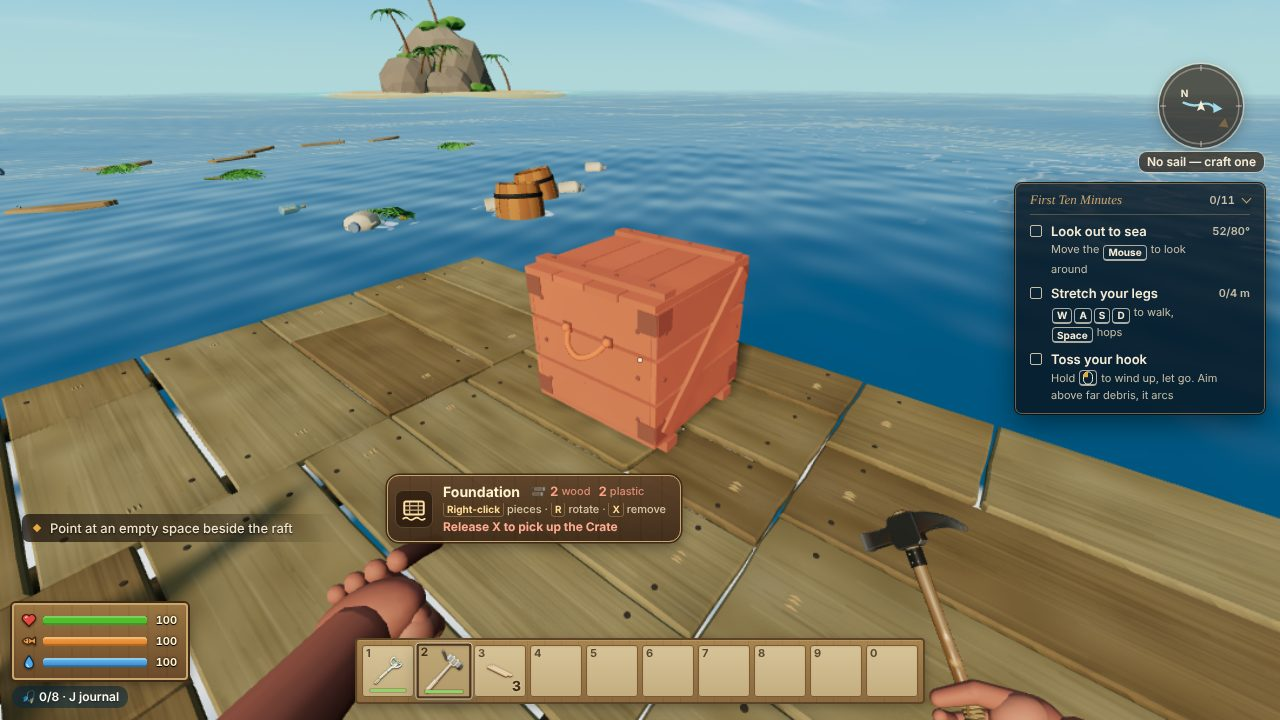
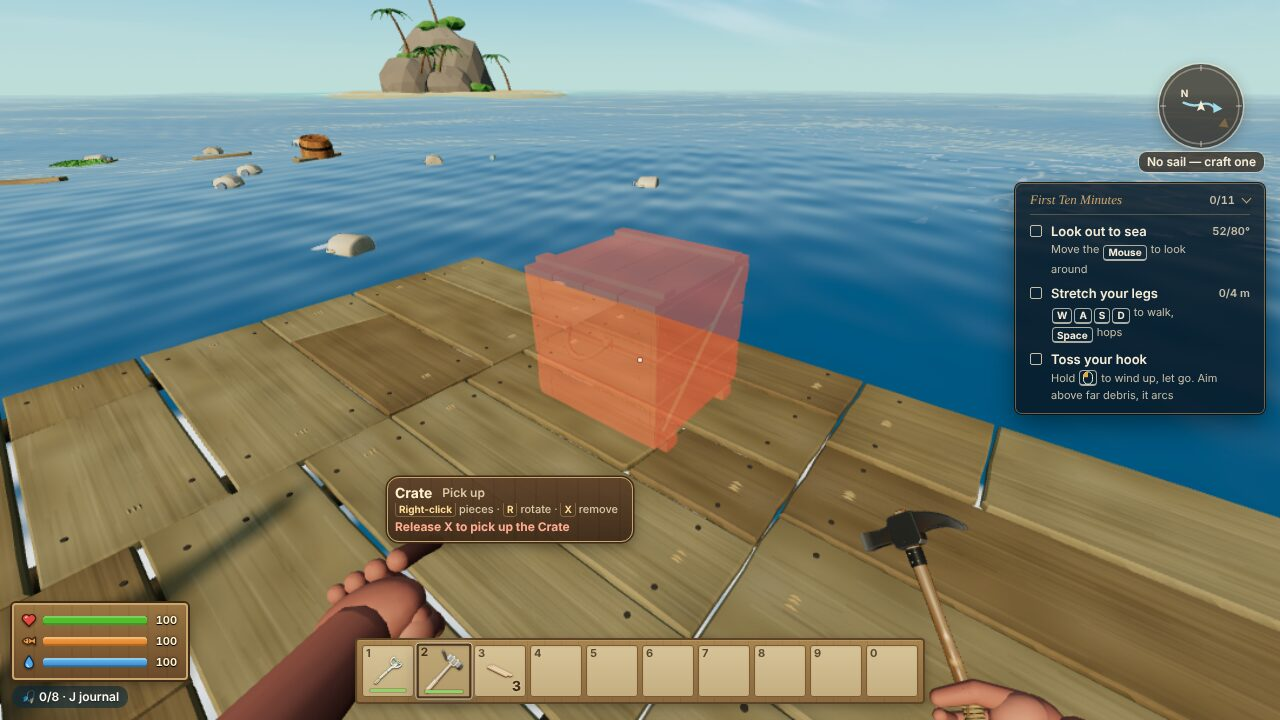
Polish round 2 from visual QA: partner knees, sit view ease, see-through pickup ghost, target name on the build card, nameplate fade, emblem outline, phone dialog grid

diff --git a/dist/game.js b/dist/game.js
@@ -315,7 +315,9 @@ export function mount(transfer = null) {
   let joinTimer = 0, joinDeadline = Number.isFinite(X?.joinDeadline) ? X.joinDeadline : 0;
   let waterClock = 0, waterAim = null; const wateringGroups = new Map(); // tileKey -> palm/purifier group
   const decorGroups = [], undecorHits = []; let hostCaps = null, hostUndecor = false, undecorPreview = null, undecorD = null, undecorText = '', undecorAct = null; // [undecor] decor meshes (rebuildRaft), guest's last host caps, QA preview tile, cached chip/action per target
-  const undecorOut = {text:'', action:null, d:null, deny:null}; // [undecor] reused every frame
+  const undecorOut = {text:'', action:null, d:null, deny:null, name:''}; // [undecor] reused every frame
+  let undecorHid = null, undecorHidD = null, undecorName = '', wasRemoving = false; // [undecor] real decor hidden under the pickup ghost; chip name; X edge
+  const HAMMER_HINT = 'Point at an empty space beside the raft';
   let netClock = 0, lastSaveAt = performance.now(), lastNetSendAt = 0, toastTimer = 0, wheelAcc = 0, peerHidden = !!X?.peerHidden, heartbeat = 0;
   let noticeText = '', noticeUntil = 0, noticeCache = null, contextCache = null, uiFailed = false; let fishShown = null;
   const hintsDone = X?.hintsDone instanceof Set ? X.hintsDone : freshSave ? new Set() : loadHints(window.localStorage); // loop-ux: first-run hint chain, once per save
@@ -431,7 +433,7 @@ export function mount(transfer = null) {
     get building() { return building; }, get brush() { return hands?.itemModel('brush') ?? null; }, woodMat: c => woodMat(c), aim: () => frameAim, // content hook (paint)
     openInventory: () => openInventory(), releaseLock: () => { clearInput(); releaseLock(); }, requestLock: () => requestLock(),
     hurtPlayer: (n, cause) => hurtPlayer(n, cause), get vitals() { return vitals; }, // [vitals] damage the LOCAL player; vitals is read-only for modules
-    faceYaw: y => { if (Number.isFinite(y)) yaw = y; }, award: ev => award(ev), // [sit] seat facing + host achievements
+    faceYaw: y => { if (Number.isFinite(y)) yaw = y; }, get pitch() { return pitch; }, facePitch: p => { if (Number.isFinite(p)) pitch = clamp(p, -PITCH_LIMIT, PITCH_LIMIT); }, award: ev => award(ev), // [sit] seat facing + host achievements
   };
   function init() {
     const assetBuild = new URL(import.meta.url).searchParams.get('build') || 'dev'; document.querySelectorAll('use[href*="icons.svg"]').forEach(el => el.setAttribute('href', 'icons.svg?build=' + assetBuild + '#' + el.getAttribute('href').split('#')[1]));
@@ -935,10 +937,10 @@ export function mount(transfer = null) {
       d = targetFromAim(world.decor, key, key ? null : frameAim?.point);
     }
     if (!d) { undecorD = null; return null; }
-    if (!undecorD || d.x !== undecorD.x || d.z !== undecorD.z || d.type !== undecorD.type) { undecorText = 'Release X to pick up the ' + (ITEM_INFO[d.type]?.name ?? d.type); undecorAct = {kind:'undecor', x:d.x, z:d.z, t:d.type}; }
+    if (!undecorD || d.x !== undecorD.x || d.z !== undecorD.z || d.type !== undecorD.type) { undecorName = ITEM_INFO[d.type]?.name ?? d.type; undecorText = 'Release X to pick up the ' + undecorName; undecorAct = {kind:'undecor', x:d.x, z:d.z, t:d.type}; }
     undecorD = d;
     const old = role === 'guest' && !hostUndecor;
-    undecorOut.d = d; undecorOut.action = old ? null : undecorAct; undecorOut.deny = old ? denyOldHost : null;
+    undecorOut.d = d; undecorOut.name = undecorName; undecorOut.action = old ? null : undecorAct; undecorOut.deny = old ? denyOldHost : null;
     undecorOut.text = old ? UNDECOR_TEXT.oldHost : !inReach(physics.x, physics.z, d.x, d.z, BUILD_REACH) ? UNDECOR_TEXT.reach : coreUndecorBlock(world, d) || undecorText;
     return undecorOut;
   }
@@ -1303,7 +1305,7 @@ export function mount(transfer = null) {
     }
     if (kind === 'hammer' || DECOR_TYPES.includes(kind)) {
       const v = placementFor(kind, p);
-      if (!v) { notice(kind === 'hammer' ? 'Point at an empty space beside the raft' : 'Point at an empty raft floor'); return; }
+      if (!v) { notice(kind === 'hammer' ? HAMMER_HINT : 'Point at an empty raft floor'); return; }
       if (v.blocked) { notice(BLOCK_TEXT[v.blocked]); return; }
       if (kind === 'hammer' && !canAfford(bag, FLOOR_COST)) { notice('Floor needs ' + missingText(bag, FLOOR_COST)); return; }
       swing = 1; ghostHold = {kind, x:v.x, z:v.z, rot:kind === 'hammer' ? 0 : placeRot}; action({kind:'build', recipe:kind === 'hammer' ? 'floor' : kind, x:v.x, z:v.z, ...(kind !== 'hammer' && placeRot ? {rot:placeRot} : {})}); return;
@@ -1601,13 +1603,25 @@ export function mount(transfer = null) {
     hookStage = hook.stage;
     if (hook.stage === 'done') endHook();
   }
+  // [undecor] hide the real decor while its red pickup ghost shows (so the ghost reads as see-through), restore after.
+  // Re-finds the group only when the target or the raft rebuild changes (decorGroups is refilled by rebuildRaft).
+  function hideDecorUnder(d) {
+    if (d === undecorHidD && (!undecorHid || undecorHid.parent)) return;
+    if (undecorHid) undecorHid.visible = true;
+    undecorHid = null; undecorHidD = d;
+    if (!d) return;
+    const k = tileKey(d.x, d.z);
+    for (let i = 0; i < decorGroups.length; i++) if (decorGroups[i].userData.tileKey === k) { undecorHid = decorGroups[i]; undecorHid.visible = false; break; }
+  }
   function updateGhost() {
     const kind = heldKind();
     const pieces = kind === 'hammer' && !hook && building && building.piece !== 'foundation'; // building-pieces lane hook
     if (undecorPreview && kind === 'hammer' && !building?.removing) building?.key('KeyX', true, true); // [undecor] QA preview holds X
     building?.update(raft, frameAim, camera.position, running && kind === 'hammer' && !hook && !uiBlocked(), localBag(), yaw, deckY());
     spearRep?.updateAim(hook ? null : kind, frameAim); spearRep?.tick(); // [spear-repair]
-    const undecorEx = building?.removing ? building.removeExtra : null; // [undecor] red see-through ghost of the aimed decor
+    const removing = !!building?.removing; if (removing && !wasRemoving) pickupFeed.dismiss(HAMMER_HINT); wasRemoving = removing; // [undecor] X held: the place hint no longer applies
+    const undecorEx = removing ? building.removeExtra : null; // [undecor] red see-through ghost of the aimed decor
+    hideDecorUnder(undecorEx?.d ?? null);
     if (undecorEx?.d) { const d = undecorEx.d; hover = null; ghostHold = null; ghosts.show(d.type, d.x * 2, .22, d.z * 2, d.rot || 0, false, elapsed); return; }
     hover = frameAim && (kind === 'hammer' || DECOR_TYPES.includes(kind)) && !hook && !pieces && !building?.removing ? placementFor(kind, frameAim.point) : null;
     const floor = kind === 'hammer';

diff --git a/dist/coop-avatar.js b/dist/coop-avatar.js
@@ -7,9 +7,9 @@
 // Built on createAvatar (./avatar.js). Held items are tiny own low-poly models (~40-250 tris each; the
 // first-person hook/hammer/rod factories are 6-13k tris, too heavy for a third-person prop), built lazily
 // and cached per kind. update() allocates nothing. Name tag needs a DOM (or OffscreenCanvas); skipped in Node.
-// Draw calls: createAvatar's 36 meshes are baked into one mesh per rigid pivot (body, legs, arms, head+hat)
+// Draw calls: createAvatar's 36 meshes are baked into one mesh per rigid pivot (body, thighs, shins, arms, head+hat)
 // with per-vertex colour + roughness on one shared material (exact same shading), plus the emissive eye shine
-// and the flat-shaded straw: 8 meshes instead of 36. Pivots in body.userData.parts stay animatable.
+// and the flat-shaded straw: 10 meshes instead of 36. Pivots in body.userData.parts stay animatable.
 import { createAvatar } from './avatar.js?build=v3-survival-ae77fa84ac2b';
 import { lookColors, lookKey } from './look.js?build=v3-survival-ae77fa84ac2b';
 
@@ -17,6 +17,7 @@ const clamp = (v, a, b) => (v < a ? a : v > b ? b : v);
 const smooth = (t) => { t = clamp(t, 0, 1); return t * t * (3 - 2 * t); };
 const lerp = (a, b, t) => a + (b - a) * t;
 const damp = (cur, tgt, rate, dt) => cur + (tgt - cur) * (1 - Math.exp(-rate * dt));
+const TAG_NEAR = 2.1, TAG_FADE = 0.7; // name tag: gone within 2.1 m (level distance), fading up to 2.8 m (it would cover the top banner)
 const EMOTE_LEN = 1.6, SWING = 0.16, RECOVER = 0.45, PULL_BACK = -3.45;
 
 export function createRemoteAvatar(T, { color = '#70a7e4', name = 'Brother', look = null } = {}) {
@@ -255,19 +256,20 @@ export function createRemoteAvatar(T, { color = '#70a7e4', name = 'Brother', loo
     A.raX = damp(A.raX, raX, ta !== null && ta !== undefined && ta < SWING ? 60 : k, dt); A.raZ = damp(A.raZ, raZ, k, dt);
     A.head = damp(A.head, -pitch * 0.75, 12, dt); A.lean = damp(A.lean, lean, 10, dt);
     P.leftLeg.rotation.x = A.lLx; P.rightLeg.rotation.x = A.rLx;
+    const kn = 1.45 * A.sit; if (P.leftKnee) P.leftKnee.rotation.x = kn; if (P.rightKnee) P.rightKnee.rotation.x = kn; // [sit] shins hang, feet on deck
     P.leftArm.rotation.set(A.laX, 0, A.laZ); P.rightArm.rotation.set(A.raX, 0, A.raZ);
     P.head.rotation.x = A.head - A.lean * 0.6;
     body.rotation.x = A.lean;
     const bob = (Math.abs(Math.sin(phase)) * 0.045 * amp + sw * (Math.sin(time * 2.1) * 0.06 - 0.05)) * (1 - A.sit); // [sit]
     body.position.y = damp(body.position.y, bob, 20, dt);
 
-    // name tag: ~constant screen size, fades beyond 40 m
+    // name tag: ~constant screen size, fades beyond 40 m and up close (under 2.5 m it would cover the top banner)
     if (tag) {
-      let d = 6;
-      if (camera) { camPos.setFromMatrixPosition(camera.matrixWorld); d = camPos.distanceTo(group.position); }
+      let d = 6, dh = 6;
+      if (camera) { camPos.setFromMatrixPosition(camera.matrixWorld); d = camPos.distanceTo(group.position); dh = Math.hypot(camPos.x - group.position.x, camPos.z - group.position.z); }
       const h = clamp(d * 0.034, 0.17, 2.2);
       tag.scale.set(h * 4, h, 1);
-      tagMat.opacity = 1 - smooth((d - 40) / 10);
+      tagMat.opacity = (1 - smooth((d - 40) / 10)) * smooth((dh - TAG_NEAR) / TAG_FADE);
       tag.visible = tagMat.opacity > 0.01;
     }
   }
@@ -322,7 +324,7 @@ const PLAIN = (m) => m.isMeshStandardMaterial && !m.flatShading && !m.map && !m.
 
 function bakeAvatar(T, body) {
   const P = body.userData.parts;
-  const pivots = [body, P.head, P.leftArm, P.rightArm, P.leftLeg, P.rightLeg];
+  const pivots = [body, P.head, P.leftArm, P.rightArm, P.leftLeg, P.rightLeg, P.leftKnee, P.rightKnee].filter(Boolean);
   const owned = [];
   const shared = new T.MeshStandardMaterial({ color: 0xffffff, vertexColors: true, roughness: 1, metalness: 0 });
   shared.onBeforeCompile = (sh) => {

diff --git a/dist/sitting.js b/dist/sitting.js
@@ -17,6 +17,7 @@ export const TEXT = Object.freeze({
 });
 const ROLES = Object.freeze(['host', 'guest']);
 const STAND_EYE = 1.6, PENDING_UP = 1, SENT_DOWN = .6, OFF_RAY = .6, MOVE = .3;
+const SIT_PITCH = -.45, PITCH_EASE = .5; // on sitting, tip the view down so the deck edge shows (once; the mouse wins after). -.22 still showed only sea on an edge bench
 const CY = Object.freeze({ bench: .5, cushion: .2 });
 
 export function createSitting(ctx) {
@@ -26,6 +27,7 @@ export function createSitting(ctx) {
   let nHx = NaN, nHz = NaN, nHs = NaN, nGx = NaN, nGz = NaN, nGs = NaN, nT = NaN; // last net copy (primitives)
   const last = { type: 'bench', x: 0, z: 0, rot: 0 }; let lastSeat = 0; // last seat (decor may vanish before we stand)
   const pt = { x: 0, z: 0, yaw: 0 }, spot = { x: 0, z: 0 }, dir = { x: 0, y: 0, z: 0 };
+  let ease = 0, easeSet = NaN; // pitch ease left (s) and the pitch we last set (a different value = the player looked)
   let hitD = null, hitI = 0, camDir = null, lastYaw = null, inMax = 0; // inMax: QA, largest move input seen while seated
 
   const isGuest = () => ctx.role === 'guest';
@@ -99,7 +101,7 @@ export function createSitting(ctx) {
   // ---- local player (both roles)
   function standUp() {
     const p = ctx.physics;
-    pendingUp = PENDING_UP; wasSeated = false;
+    pendingUp = PENDING_UP; wasSeated = false; ease = 0;
     if (p) {
       standSpot(ctx.world, findDecor(ctx.world, last.x, last.z) ?? last, lastSeat, spot);
       p.x = spot.x; p.z = spot.z; p.y = deck() + STAND_EYE; p.vx = 0; p.vy = 0; p.vz = 0; p.grounded = true;
@@ -120,13 +122,23 @@ export function createSitting(ctx) {
       if (!wasSeated) {
         wasSeated = true; sentDown = 0;
         const d = findDecor(ctx.world, mine[0], mine[1]); if (d) { seatPoint(d, mine[2], pt); ctx.faceYaw?.(pt.yaw); }
+        const p0 = ctx.pitch; if (typeof ctx.facePitch === 'function' && Number.isFinite(p0) && p0 > SIT_PITCH) { ease = PITCH_EASE; easeSet = p0; }
       }
+      if (ease > 0) easePitch(dt);
       if ((ctx.vitals?.hp ?? 1) <= 0) standUp(); // fainted: get up
     } else if (wasSeated) standUp(); // the host cleared the seat by itself (decor gone, or a remote sit.up)
   }
 
+  function easePitch(dt) {
+    const p0 = ctx.pitch;
+    if (!Number.isFinite(p0) || Math.abs(p0 - easeSet) > 1e-4 || p0 <= SIT_PITCH) { ease = 0; return; } // the player looked: stop
+    ease = Math.max(0, ease - dt);
+    const p1 = ease > 0 ? p0 + (SIT_PITCH - p0) * (1 - Math.exp(-12 * dt)) : SIT_PITCH;
+    ctx.facePitch(p1); easeSet = ctx.pitch;
+  }
+
   // A new world (own save restored, or a different raft joined): drop the seat without teleporting.
-  function forget() { pendingUp = 0; sentDown = 0; wasSeated = false; }
+  function forget() { pendingUp = 0; sentDown = 0; wasSeated = false; ease = 0; }
 
   function load(data, from) {
     if (from === 'net') {

diff --git a/dist/build-menu.js b/dist/build-menu.js
@@ -123,12 +123,16 @@ export function createBuildMenu({ pieces, onPick, root = document.body } = {}) {
     '<span class="bm-hint"><kbd>Right-click</kbd> pieces · <kbd>R</kbd> rotate · <kbd>X</kbd> remove</span><span class="bm-status"></span></div>';
   const chipIcon = chip.querySelector('i'), chipName = chip.querySelector('b'), chipCost = chip.querySelector('.bm-cost'), chipStatus = chip.querySelector('.bm-status');
   root.appendChild(chip);
-  let chipShown = false, chipText = '';
+  let chipShown = false, chipText = '', tgtName = null, tgtVerb = '', tgtId = null; // tgt*: X held, the card names what X would remove
 
   function renderChip() {
+    if (tgtName !== null) {
+      const ic = tgtId && byId.has(tgtId); chipIcon.innerHTML = ic ? iconSvg(tgtId, 26) : ''; chipIcon.style.display = ic ? '' : 'none'; chipName.textContent = tgtName;
+      chipCost.innerHTML = `<span class="bm-free">${esc(tgtVerb)}</span>`; return;
+    }
     const p = list[byId.get(selected)];
     if (!p) return;
-    chipIcon.innerHTML = iconSvg(p.id, 26); chipName.textContent = p.name; chipCost.innerHTML = costHtml(p.cost);
+    chipIcon.style.display = ''; chipIcon.innerHTML = iconSvg(p.id, 26); chipName.textContent = p.name; chipCost.innerHTML = costHtml(p.cost);
   }
   function renderMid() {
     const i = hot >= 0 ? hot : byId.get(selected) ?? -1, p = list[i];
@@ -204,6 +208,13 @@ export function createBuildMenu({ pieces, onPick, root = document.body } = {}) {
     setAfford(fn) { canAfford = typeof fn === 'function' ? fn : () => true; api.refresh(); },
     refresh() { if (chipShown) renderChip(); if (open) { refreshAfford(); renderMid(); } },
     setVisible(v) { v = !!v; if (v === chipShown) return; chipShown = v; chip.hidden = !v; if (v) renderChip(); },
+    /** While removing: name the aimed piece / decor instead of the selected recipe (null restores it). Cheap when unchanged. */
+    setTarget(name = null, verb = '', id = null) {
+      name = name ? String(name) : null;
+      if (name === tgtName && verb === tgtVerb && id === tgtId) return;
+      tgtName = name; tgtVerb = name ? String(verb || '') : ''; tgtId = name ? id : null;
+      if (chipShown) renderChip();
+    },
     setChip(text) { text = text ? String(text) : ''; if (text !== chipText) { chipText = text; chipStatus.textContent = text; } },
     dispose() {
       wheel.removeEventListener('click', onClick); wheel.removeEventListener('contextmenu', onCtx);

diff --git a/dist/avatar.js b/dist/avatar.js
@@ -113,15 +113,20 @@ export function createAvatar(T, colorOrLook) {
   const shortLegGeo = geo(new T.CylinderGeometry(0.1, 0.11, 0.25, 8));
   const legGeo = geo(new T.CylinderGeometry(0.065, 0.058, 0.5, 8));
   const shoeGeo = geo(new T.SphereGeometry(0.075, 10, 6));
+  const KNEE = 0.3; // knee pivot, below the hip
   const makeLeg = (side) => {
     const hip = new T.Group();
     hip.name = side < 0 ? 'leftLeg' : 'rightLeg';
     hip.position.set(0.1 * side, 0.8, 0);
     add(hip, shortLegGeo, M.shorts, 0, -0.125, 0);
-    add(hip, legGeo, M.skin, 0, -0.47, 0);
-    const shoe = add(hip, shoeGeo, M.shoe, 0, -0.755, 0.035);
+    const knee = new T.Group(); // shin + shoe pivot (co-op sitting bends it); rest pose matches the old straight leg
+    knee.name = side < 0 ? 'leftKnee' : 'rightKnee';
+    knee.position.set(0, -KNEE, 0); hip.add(knee);
+    add(knee, legGeo, M.skin, 0, -0.47 + KNEE, 0);
+    const shoe = add(knee, shoeGeo, M.shoe, 0, -0.755 + KNEE, 0.035);
     shoe.scale.set(1, 0.6, 1.5); // bottom lands exactly at y = 0
     root.add(hip);
+    hip.userData.knee = knee;
     return hip;
   };
   // Avatar faces +Z, so its left side is +X.
@@ -276,7 +281,7 @@ export function createAvatar(T, colorOrLook) {
     head.rotation.x = -Math.max(-0.6, Math.min(0.6, pitch)) * 0.5 * (1 - swim) - 0.6 * swim;
   }
 
-  root.userData.parts = { head, leftArm, rightArm, leftLeg, rightLeg };
+  root.userData.parts = { head, leftArm, rightArm, leftLeg, rightLeg, leftKnee: leftLeg.userData.knee, rightKnee: rightLeg.userData.knee };
   root.userData.setHeld = setHeld;
   root.userData.animate = animate;
   root.userData.eyeHeight = 1.65;

diff --git a/dist/flags-ui.js b/dist/flags-ui.js
@@ -37,6 +37,13 @@ const CSS = `
 #lr-flag .flag-btn:focus-visible{outline:2px solid #fff2cc;outline-offset:2px}
 #lr-flag .flag-btn.flag-save{background:linear-gradient(#5f8f45,#456c31)}
 #lr-flag .flag-btn.flag-random{margin-right:auto}
+@media (max-width:420px){ /* phone: even rows, no single orphan (8 swatches on one row, patterns 3+3, emblems 5+4) */
+#lr-flag .flag-opts{display:grid;gap:5px}
+#lr-flag .opts-sw{grid-template-columns:repeat(8,minmax(0,40px))}
+#lr-flag .opts-sw .flag-swatch{width:100%;min-width:0;height:auto;aspect-ratio:1}
+#lr-flag .opts-pat{grid-template-columns:repeat(3,58px)}
+#lr-flag .opts-emb{grid-template-columns:repeat(5,40px)}
+}
 `;
 const SVG = 'http://www.w3.org/2000/svg';
 const cap = s => s.charAt(0).toUpperCase() + s.slice(1);
@@ -65,7 +72,7 @@ export function createFlagUI(api) {
   const rows = [];
   function row(label, idx, count, build) {
     const r = el('div', 'flag-row'), lab = el('p', 'flag-label', label), opts = el('div', 'flag-opts');
-    const id = 'lr-flag-row-' + idx; lab.id = id; opts.setAttribute('role', 'group'); opts.setAttribute('aria-labelledby', id);
+    const id = 'lr-flag-row-' + idx; lab.id = id; opts.classList.add(idx === 1 ? 'opts-pat' : idx === 3 ? 'opts-emb' : 'opts-sw'); opts.setAttribute('role', 'group'); opts.setAttribute('aria-labelledby', id);
     const btns = [];
     for (let v = 0; v < count; v++) {
       const b = el('button', 'flag-opt'); b.type = 'button';

diff --git a/dist/flags-model.js b/dist/flags-model.js
@@ -21,6 +21,7 @@ transformed.y -= 0.06 * fu * fu * (1.2 - uStr);
  * Paint a flag design with the canvas 2D API only (+ a Path2D constructor), so it is testable with fakes.
  * Canvas x = 0 is the hoist (pole side). d = [bg, pat, patCol, emb, embCol] (already cleaned).
  */
+const DARK = new Set([4, 5, 6, 7]); // Lagoon, Navy, Charcoal, Plum: outline these in cream
 export function paintFlag(g, d, w = 128, h = 64, P2D = globalThis.Path2D) {
   const [bg, pat, pc, emb, ec] = d;
   const u = h / 64;
@@ -42,8 +43,14 @@ export function paintFlag(g, d, w = 128, h = 64, P2D = globalThis.Path2D) {
     g.save();
     g.translate((w - 64 * k) / 2, (h - 64 * k) / 2);
     g.scale(k, k);
-    g.fillStyle = PALETTE[ec] ?? PALETTE[5];
-    g.fill(new P2D(path));
+    const ecol = PALETTE[ec] ?? PALETTE[5], shape = new P2D(path);
+    // outline (outer half of a stroke under the fill, ~2 px at 64 px tall): the background colour, or a contrasting
+    // one when the emblem is the background colour, so the emblem still reads on a same-coloured pattern
+    g.strokeStyle = ecol !== (PALETTE[bg] ?? PALETTE[1]) ? (PALETTE[bg] ?? PALETTE[1]) : DARK.has(ec) ? '#fff4dc' : '#153e49';
+    g.lineWidth = 4 * u / k; g.lineJoin = 'round';
+    g.stroke(shape);
+    g.fillStyle = ecol;
+    g.fill(shape);
     g.restore();
   }
   // hem at the hoist: a thin darker line where the cloth wraps the halyard

diff --git a/dist/pickup-feed.js b/dist/pickup-feed.js
@@ -97,6 +97,8 @@ export function createFeed({ doc = globalThis.document, now = () => performance.
       const row = rows.get('k:' + kind); if (!row?.box) return;
       const ic = icon(kind); if (ic) row.box.replaceChildren(ic);
     },
+    /** Fade out a live text note early (a hint that no longer applies). */
+    dismiss(text) { const k = 't:' + String(text ?? '').trim().slice(0, 90), row = rows.get(k); if (row) drop(k, row); },
     clear() { for (const [k, r] of [...rows]) { rows.delete(k); clear(r.hold); r.el.remove(); } },
     get rows() { return [...rows.values()].map(r => r.label.textContent); },
   };
@@ -110,6 +112,7 @@ export const pickupFeed = Object.freeze({
   note: text => feed().note(text),
   setIconProvider: fn => feed().setIconProvider(fn),
   refresh: kind => shared?.refresh(kind),
+  dismiss: text => shared?.dismiss(text),
   clear: () => feed().clear(),
   get rows() { return shared ? shared.rows : []; },
 });

diff --git a/dist/building.js b/dist/building.js
@@ -98,6 +98,10 @@ export function createBuilding(T, scene) {
       }
     }
     if (text !== chipText) { chipText = text; menu.setChip(text); }
+    // [undecor] the card names what X would take away (strings are cached per target; no per-frame allocation)
+    if (removeTarget) menu.setTarget?.(PIECES[removeTarget.t].name, 'Remove', removeTarget.t);
+    else if (removeExtra?.d && removeExtra.name) menu.setTarget?.(removeExtra.name, 'Pick up', null);
+    else menu.setTarget?.(null);
   }
   // Paint (content hook): instance colours only; the shared material colour is never touched.
   function retint() {

diff --git a/docs/cloud/qa-round-r2.md b/docs/cloud/qa-round-r2.md
@@ -73,3 +73,21 @@ Scripts (scratchpad): `qa2_shots.py`, `qa2_wind.py`, `qa2_inv.py`. Baseline run:
 The decor-pack Wind Pennant points about 90 degrees from downwind, while the Flagpole (and the sail's own pennant) point downwind.
 - **Evidence:** measured bearings of about 2.2 rad against a wind of 0.6 rad, versus 0.59 to 0.66 rad for the flag (issue 1), plus shots h3 and h4.
 - **Fix:** a one-line change at `dist/decor-pack.js:173`, adding `- Math.PI / 2`.
+
+## After fixes
+
+Re-shot with the same rig and scripts (`qa2_shots.py` modes `pick,flag,phone,sit,coop`; the `sit` mode now levels the gaze *before* sitting and no longer re-aims after, so e1 shows what the sit itself does). Updated JPEGs in `docs/cloud/shots/r2/`: a1, a2, c2, d2, e1, f2. `npm test`: 954 pass, 0 fail (two new tests: the sit pitch ease, and the emblem outline).
+
+| # | Issue | Status | What changed / evidence |
+|---|---|---|---|
+| 1 | Pennant 90 degrees off the wind | Fixed earlier | Not touched in this pass. |
+| 2 | Seated partner's legs straight, feet floating | **Fixed** | `avatar.js`: each leg has a `leftKnee`/`rightKnee` pivot 0.3 m below the hip holding the shin and shoe (the rest pose is unchanged). `coop-avatar.js` bakes the knees as their own pivots (10 draw calls instead of 8) and sets `knee.rotation.x = 1.45 * A.sit`, so the thighs are level, the shins hang, and the shoes rest on the deck (f2). |
+| 3 | No seated cue on a bench | **Fixed (stronger pitch)** | `sitting.js` eases the pitch once on sitting, over about 0.5 s, only if the view is above the target. `game.js` exposes `ctx.pitch` and `ctx.facePitch`. The ease stops as soon as the pitch differs from the value it last set (the player moved the mouse), so it never fights the mouse. **The target is -0.45, not -0.22:** at -0.22 an edge bench still showed only sea, because the deck is about 1 m deep in front of the seat and the hotbar covers the bottom of the frame. At -0.45 the deck edge shows above the hotbar (e1). |
+| 4 | Pickup ghost reads as a solid salmon item | **Fixed** | `game.js` `hideDecorUnder()` hides the matching `decorGroups` entry while the remove ghost shows and restores it when the aim leaves, X is released, the item is swapped, or the raft is rebuilt. It looks the group up only when the target changes. Raycasts still hit the hidden group (three.js ignores `visible`). The red ghost now shows the deck through it (a1, a2). Probe: visible goes true, then false while X is held, then true on aim away, false on aim back, and true on item swap, and the decor is kept. |
+| 5 | Card shows "Foundation 2 wood…" and a stale "Point at an empty space" hint | **Fixed** | `build-menu.js` adds `setTarget(name, verb, id)`. `building.js` uses it to name the target, showing "Crate · Pick up" for decor (the icon tile is hidden) and "Wall · Remove" with the piece icon for pieces. It restores the recipe card afterwards. `pickup-feed.js` adds `dismiss(text)`, and `game.js` dismisses the hammer place hint on the X-down edge (a1: no stale line). |
+| 6 | Partner nameplate overlaps the top banner up close | **Fixed** | The tag opacity is multiplied by `smooth((level distance - 2.1) / 0.7)`, so it is hidden within 2.1 m and full from about 2.8 m (the 40 m far fade is unchanged). It is gone in f2 (about 2 m) and still shown in f1. |
+| 7 | Emblem disappears on a same-coloured pattern | **Fixed** | `paintFlag` strokes the emblem path (2 px outer edge at 64 px tall, round joins) under the fill. The stroke uses the background colour, or cream or dark teal when the emblem matches the background. The cream shell on cream stripes now reads clearly (c2). |
+| 8 | Phone dialog rows orphan | **Fixed** | Under `@media (max-width:420px)` the option rows are grids: 8 swatches on one row (they shrink on narrower phones), patterns 3+3, and emblems 5+4. At 390x844 the dialog is 367x633 (it was 728 tall) with no horizontal scroll (d2). |
+| 9, 10 | | Skipped | As agreed. |
+
+**Console:** no new errors. The pick run sometimes logs `Cannot read properties of undefined (reading 'isReady')` from three.js `compileAsync` (from `warmKinds()` shader warm-up). It reproduces on the stashed pre-fix `dist/` too (1 in 3 runs), so it is an existing SwiftShader race and these changes did not cause it.
